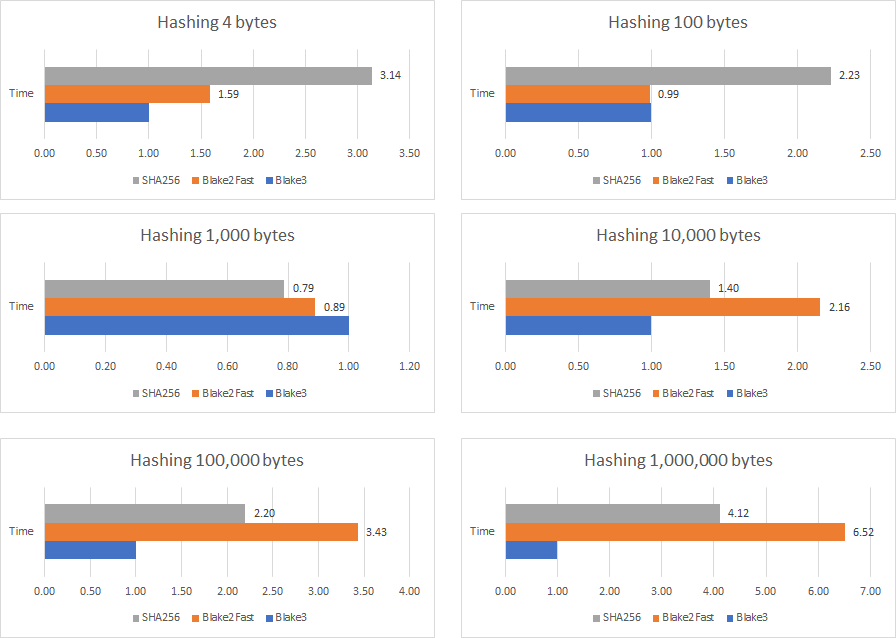
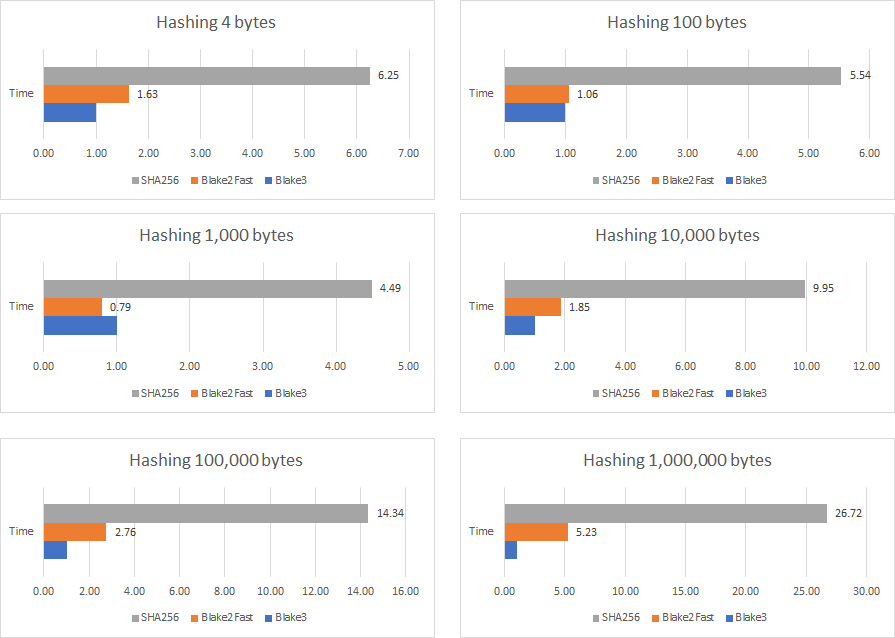
Update benchmarks with CPU without SHA extensions

diff --git a/readme.md b/readme.md
@@ -1,10 +1,20 @@
-# **Blake3**<span style="color: #A80016; font-weight: bold">.NET</span> [![Build Status](https://github.com/xoofx/Blake3.NET/workflows/managed/badge.svg?branch=master)](https://github.com/xoofx/Blake3.NET/actions) [![Build Status](https://github.com/xoofx/Blake3.NET/workflows/native/badge.svg?branch=master)](https://github.com/xoofx/Blake3.NET/actions) [![NuGet](https://img.shields.io/nuget/v/Blake3.svg)](https://www.nuget.org/packages/Blake3/)
+# Blake3<font color="A80016">.NET</span> [![Build Status](https://github.com/xoofx/Blake3.NET/workflows/managed/badge.svg?branch=master)](https://github.com/xoofx/Blake3.NET/actions) [![Build Status](https://github.com/xoofx/Blake3.NET/workflows/native/badge.svg?branch=master)](https://github.com/xoofx/Blake3.NET/actions) [![NuGet](https://img.shields.io/nuget/v/Blake3.svg)](https://www.nuget.org/packages/Blake3/)
 
 <img align="right" width="160px" height="160px" src="img/logo.png">
 
 Blake3.NET is a fast managed wrapper around the SIMD Rust implementations of the [BLAKE3](https://github.com/BLAKE3-team/BLAKE3) cryptographic hash function.
 
 > The current _native_ version of BLAKE3 used by Blake3.NET is `0.3.7`
+
+## Features
+
+- Compatible with .NET5.0+
+- Fast interop with `Span` friendly API.
+- API similar to the [Blake3 Rust API](https://docs.rs/blake3/0.3.7/blake3/)
+- CPU SIMD Hardware accelerated with dynamic CPU feature detection.
+  - Multiple [platforms](#platforms) supported.
+- Incremental update API via `Hasher`.
+- Support for multi-threading hashing via `Hasher.UpdateWithJoin`
 
 ## Usage
 
@@ -57,11 +67,58 @@ For the 1,000,000 bytes test, Blake3 is using the multi-threading version provid
 
 > **Results**
 >
-> - In general, Blake3 is faster. 
+> - In general, Blake3 is much faster than SHA256 which is depending on whether your CPU supports Intel SHA Extensions.
+>   - Blake3 can be from **2x to 10x times faster** than SHA256
 > - The multi-threading version can give a significant boost if the data to hash is big enough
-> - There is a worst case around 1,000 bytes (that will probably require some investigation)
+> - Blake3 is usually working best on large input.
+
+## Results
+
+The CPU before Intel Ice Lake or AMD Zen don't have the [Intel SHA CPU extensions](https://en.wikipedia.org/wiki/Intel_SHA_extensions).
+
+In that case, **Blake3 is around 5x to 10x times faster** than the built-in SHA256.
+
+The following benchmark was ran on an Intel Core i7-4980HQ CPU 2.80GHz (Haswell):
 
 ![Benchmarks](img/benchmarks.png)
+
+``` ini
+
+BenchmarkDotNet=v0.12.1, OS=Windows 10.0.18363.1139 (1909/November2018Update/19H2)
+Intel Core i7-4980HQ CPU 2.80GHz (Haswell), 1 CPU, 8 logical and 4 physical cores
+.NET Core SDK=5.0.100
+  [Host]     : .NET Core 5.0 (CoreCLR 5.0.20.51904, CoreFX 5.0.20.51904), X64 RyuJIT
+  DefaultJob : .NET Core 5.0.0 (CoreCLR 5.0.20.51904, CoreFX 5.0.20.51904), X64 RyuJIT
+
+```
+|     Method |       N |            Mean |         Error |        StdDev |          Median |
+|----------- |-------- |----------------:|--------------:|--------------:|----------------:|
+|     **Blake3** |       **4** |        **85.06 ns** |      **1.704 ns** |      **2.154 ns** |        **83.55 ns** |
+| Blake2Fast |       4 |       138.30 ns |      0.755 ns |      0.670 ns |       138.36 ns |
+|     SHA256 |       4 |       531.82 ns |      0.842 ns |      0.788 ns |       531.85 ns |
+|     **Blake3** |     **100** |       **145.12 ns** |      **2.899 ns** |      **4.064 ns** |       **142.56 ns** |
+| Blake2Fast |     100 |       153.41 ns |      3.057 ns |      4.760 ns |       150.66 ns |
+|     SHA256 |     100 |       803.32 ns |     11.420 ns |      8.916 ns |       797.37 ns |
+|     **Blake3** |    **1000** |       **999.01 ns** |     **19.658 ns** |     **26.908 ns** |       **984.60 ns** |
+| Blake2Fast |    1000 |       789.41 ns |     15.814 ns |     18.825 ns |       784.82 ns |
+|     SHA256 |    1000 |     4,489.81 ns |     84.032 ns |     78.603 ns |     4,525.27 ns |
+|     **Blake3** |   **10000** |     **4,099.92 ns** |     **49.985 ns** |     **46.756 ns** |     **4,121.94 ns** |
+| Blake2Fast |   10000 |     7,593.55 ns |    127.193 ns |    112.753 ns |     7,609.07 ns |
+|     SHA256 |   10000 |    40,799.82 ns |    769.102 ns |  1,386.850 ns |    41,460.32 ns |
+|     **Blake3** |  **100000** |    **28,491.58 ns** |    **394.692 ns** |    **369.195 ns** |    **28,498.05 ns** |
+| Blake2Fast |  100000 |    78,732.84 ns |    648.124 ns |    606.255 ns |    78,887.56 ns |
+|     SHA256 |  100000 |   408,581.45 ns |  2,359.416 ns |  2,207.000 ns |   409,059.91 ns |
+|     **Blake3** | **1000000** |   **138,481.22 ns** |  **1,300.797 ns** |  **1,216.767 ns** |   **138,460.16 ns** |
+| Blake2Fast | 1000000 |   724,092.30 ns |  6,995.547 ns |  6,543.639 ns |   720,115.33 ns |
+|     SHA256 | 1000000 | 3,699,812.03 ns | 37,739.460 ns | 35,301.514 ns | 3,678,276.17 ns |
+
+## Results with SHA CPU extensions
+
+If your CPU has [Intel SHA CPU extensions](https://en.wikipedia.org/wiki/Intel_SHA_extensions), then **Blake3 is on average ~2x times faster** than SHA256.
+
+The following benchmarks was ran on a AMD Ryzen 9 3900X:
+
+![Benchmarks](img/benchmarks-sha-accelerated.png)
 
 ``` ini
 
